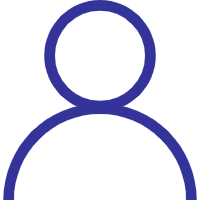
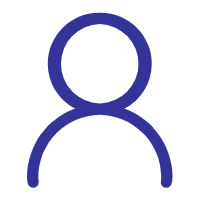
提交代码

diff --git a/src/components/c-tabBar/index.vue b/src/components/c-tabBar/index.vue
@@ -1,0 +1,40 @@
+<template>
+    <div class="tabbar">
+        <tab v-for="(item, index) in navs" :key="index" v-bind="item" :active="$route.path === item.path" />
+    </div>
+</template>
+<script>
+import messageIcon from '../../assets/message-icon.png'
+import messageActiveIcon from '../../assets/message-active-icon.png'
+import friendsIcon from '../../assets/friends-icon.png'
+import friendsActiveIcon from '../../assets/friends-active-icon.png'
+import userIcon from '../../assets/user-icon.png'
+import userActiveIcon from '../../assets/user-active-icon.png'
+import tab from './tab'
+export default {
+  components: {
+    tab
+  },
+  data () {
+    return {
+      navs: [
+        { path: '/', icon: messageIcon, activeIcon: messageActiveIcon, title: '消息' },
+        { path: '/friend/list', icon: friendsIcon, activeIcon: friendsActiveIcon, title: '好友' },
+        { path: '/person', icon: userIcon, activeIcon: userActiveIcon, title: '我的' }
+      ]
+    }
+  }
+}
+</script>
+<style lang="less" scoped>
+.tabbar{
+    position: fixed;
+    left: 0;
+    bottom: 0;
+    width: 100%;
+    height: 100/@r;
+    border-top: 1px solid #d5d5d5;
+    background-color: @white;
+    display: flex;
+}
+</style>

diff --git a/src/components/profile.vue b/src/components/profile.vue
@@ -1,0 +1,38 @@
+<template>
+    <div class="info">
+        <img class="avatar" src="http://p2.ifengimg.com/a/2018_31/2dd37bca611f306_size220_w1024_h1027.jpg" />
+        <div class="content">
+            <h3 class="nickName">赵丽颖</h3>
+            <p class="item"><span>账号：</span><span>zhaoliying</span></p>
+            <p class="item"><span>备注：</span><span>平安就是福气</span></p>
+        </div>
+    </div>
+</template>
+<script>
+export default {}
+</script>
+<style lang="less" scoped>
+    .info{
+        padding: 20/@r 24/@r;
+        background-color: #ffffff;
+        display: flex;
+        .avatar{
+            width: 120/@r;
+            height: 120/@r;
+            border-radius: 6/@r;
+        }
+        .content{
+            margin-left: 20/@r;
+            .nickName{
+                font-size: 36/@r;
+                color: #4f4f4f;
+                font-weight: bold;
+            }
+            .item{
+                font-size: 28/@r;
+                color: #666666;
+                margin-top: 12/@r;
+            }
+        }
+    }
+</style>

diff --git a/src/components/c-tabBar/tab.vue b/src/components/c-tabBar/tab.vue
@@ -1,0 +1,44 @@
+<template>
+    <router-link :to="path" class="tab">
+        <div class="tab-icon">
+            <img :src="active ? activeIcon: icon" />
+        </div>
+        <div :class="{'tab-text': true, 'tab-text-active': active}">{{title}}</div>
+    </router-link>
+</template>
+<script>
+export default {
+  props: [
+    'path',
+    'icon',
+    'activeIcon',
+    'active',
+    'title'
+  ]
+}
+</script>
+<style lang="less" scoped>
+.tab{
+    flex: 1;
+    display: flex;
+    flex-direction: column;
+    justify-content: center;
+    align-items: center;
+}
+.tab-icon{
+    width: 50/@r;
+    height: 50/@r;
+   img{
+     width: 100%;
+   }
+}
+.tab-text{
+    font-size: 28/@r;
+    margin-top: 6/@r;
+    color: #999999;
+    font-weight: bold;
+}
+.tab-text-active{
+    color: @primary;
+}
+</style>

diff --git a/src/router/index.js b/src/router/index.js
@@ -4,6 +4,9 @@ import Login from '@/views/login'
 import Register from '@/views/register'
 import Layout from '@/views/layout'
 import MainLayout from '@/views/main-layout'
+import MessageList from '@/views/message-list'
+import FriendList from '@/views/friend-list'
+import Person from '@/views/person'
 
 Vue.use(VueRouter)
 
@@ -15,7 +18,15 @@ const routes = [
     component: Layout,
     children:
     [
-      { path: '/', component: MainLayout }
+      {
+        path: '/',
+        component: MainLayout,
+        children: [
+          { path: '/', component: MessageList, name: 'message-list' },
+          { path: '/friend/list', component: FriendList, name: 'friend-list' },
+          { path: '/person', component: Person, name: 'person' }
+        ]
+      }
     ]
   }
 ]

diff --git a/src/components/c-session-item.vue b/src/components/c-session-item.vue
@@ -1,0 +1,42 @@
+<template>
+    <div class="session-item">
+        <div>
+            <div class="title">{{title}}</div>
+        </div>
+        <div>
+            <div class="right-text"></div>
+            <img class="arrow" :src="arrowIcon" />
+        </div>
+    </div>
+</template>
+<script>
+import arrowIcon from '@/assets/arrow.png'
+export default {
+  props: [
+    'title'
+  ],
+  data () {
+    return {
+      arrowIcon
+    }
+  }
+}
+</script>
+<style lang="less" scoped>
+.session-item{
+    height: 90/@r;
+    display: flex;
+    align-items: center;
+    justify-content: space-between;
+    padding-right: 24/@r;
+}
+.title{
+    font-size: 28/@r;
+    color: #4f4f4f;
+    font-weight: 500;
+}
+.arrow{
+    width: 36/@r;
+    height: 36/@r;
+}
+</style>

diff --git a/src/components/index.js b/src/components/index.js
@@ -3,6 +3,8 @@ import CFormItem from './c-formItem'
 import CInput from './c-input'
 import CButton from './c-button'
 import CTabBar from './c-tabBar'
+import CSession from './c-session'
+import CSessionItem from './c-session-item'
 
 const install = function (Vue) {
   Vue.component('c-form', CForm)
@@ -10,6 +12,8 @@ const install = function (Vue) {
   Vue.component('c-input', CInput)
   Vue.component('c-button', CButton)
   Vue.component('c-tabBar', CTabBar)
+  Vue.component('c-session', CSession)
+  Vue.component('c-session-item', CSessionItem)
 }
 
 export default {

diff --git a/src/views/person.vue b/src/views/person.vue
@@ -1,0 +1,25 @@
+<template>
+    <div>
+        <profile />
+        <c-session class="body">
+          <c-session-item title="设置" />
+        </c-session>
+    </div>
+</template>
+<script>
+import profile from '@/components/profile'
+export default {
+  components: {
+    profile
+  }
+}
+</script>
+<style lang="less" scoped>
+.buttons{
+    margin: 0 24/@r;
+    margin-top: 80/@r;
+}
+.body{
+  margin-top: 20/@r;
+}
+</style>

diff --git a/src/components/c-session.vue b/src/components/c-session.vue
@@ -1,0 +1,11 @@
+<template>
+    <div class='session'>
+        <slot />
+    </div>
+</template>
+<style lang="less" scoped>
+.session{
+    padding-left: 24/@r;
+    background-color: #ffffff;
+}
+</style>

diff --git a/src/views/main-layout.vue b/src/views/main-layout.vue
@@ -1,5 +1,6 @@
 <template>
     <div>
+        <router-view />
         <c-tabBar />
     </div>
 </template>

diff --git a/src/App.vue b/src/App.vue
@@ -5,5 +5,7 @@
 </template>
 
 <style lang="less">
-
+body{
+  background-color: #f5f5f5;
+}
 </style>

diff --git a/src/views/friend-list.vue b/src/views/friend-list.vue
@@ -1,0 +1,3 @@
+<template>
+    <div>朋友列表</div>
+</template>

diff --git a/src/views/message-list.vue b/src/views/message-list.vue
@@ -1,0 +1,3 @@
+<template>
+    <div>消息列表</div>
+</template>
